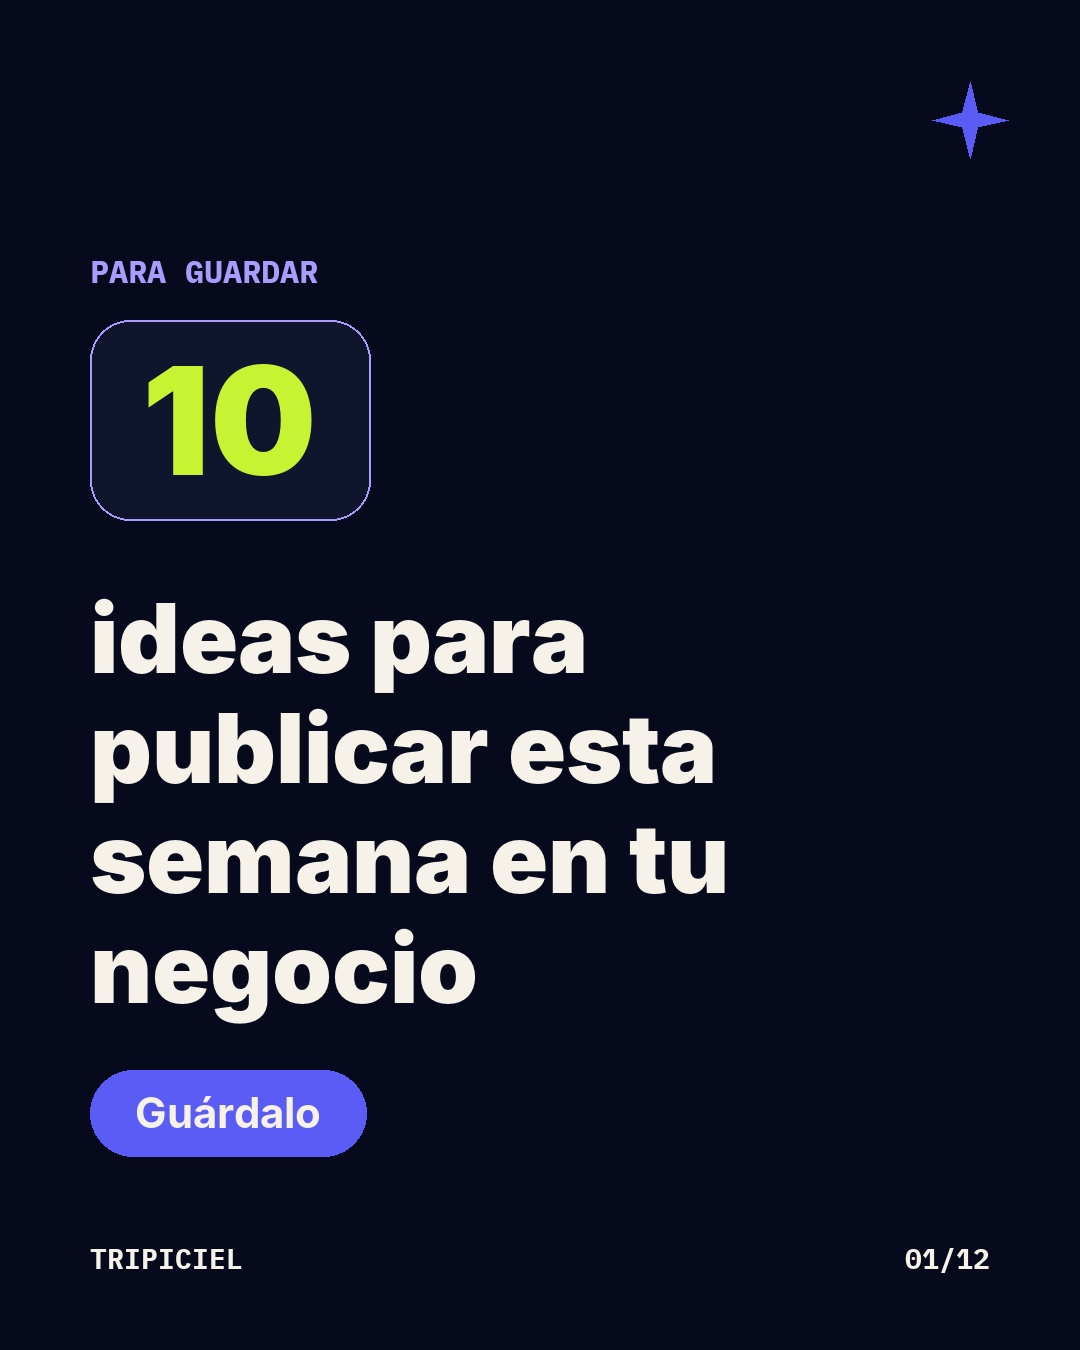
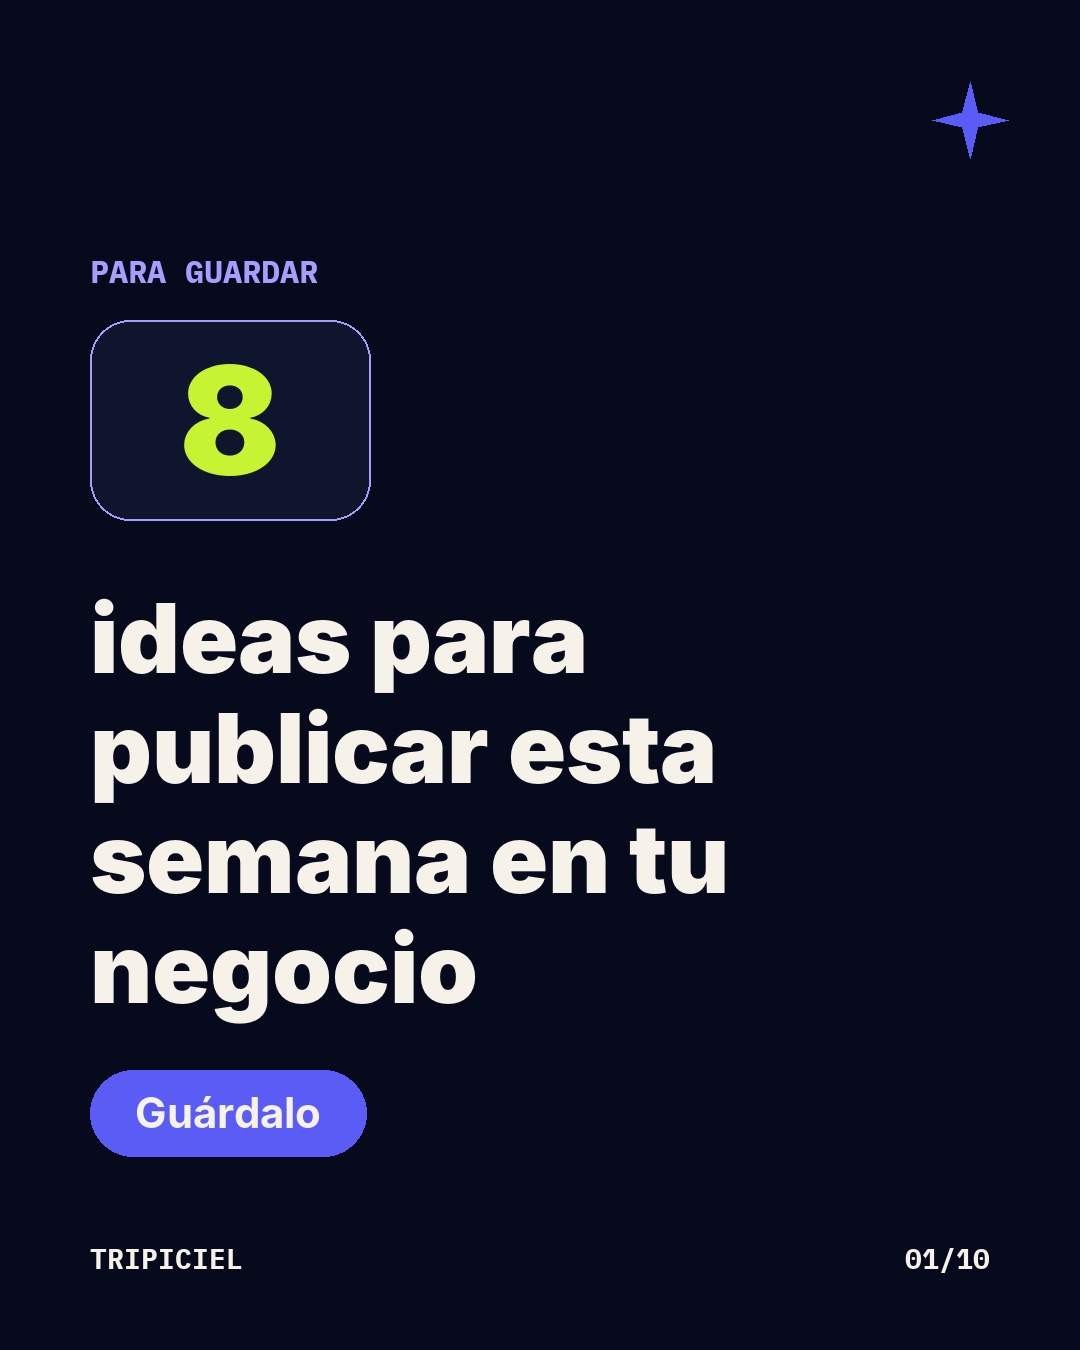
Semana 1 día 4

Changed region(s): [[0.1222, 0.2489, 0.3056, 0.3733]]

diff --git a/semana-01/dia-04/historias/_build.py b/semana-01/dia-04/historias/_build.py
@@ -62,7 +62,7 @@ def h01():
     star(d,540,720,300,VIO); star(d,540,720,130,CRE); star(d,830,480,46,LIM); star(d,240,950,30,LAV)
     center(d,1080,"MARTES",f("heros",190),CRE,0)
     center(d,1300,"de ideas",f("play",140),LAV,0)
-    center(d,1490,"Hoy: casos reales, bots y 10 ideas.",f("reg",42),CRE)
+    center(d,1490,"Hoy: casos reales, bots y 8 ideas.",f("reg",42),CRE)
     return im
 
 def h02():
@@ -112,7 +112,7 @@ def h04():
         left(d,230,760,"ideas para\npublicar\nesta semana",f("black",84),BG,6)
         d.text((230,1080),"en tu negocio",font=f("play",80),fill=VIO)
     d=ImageDraw.Draw(im)
-    center(d,1300,"10 ideas para tu negocio",f("heros",64),CRE)
+    center(d,1300,"8 ideas para tu negocio",f("heros",64),CRE)
     arrow_cta(d,1420,"Míralo en el perfil"); sign(d,"tl"); return im
 
 def h05():
